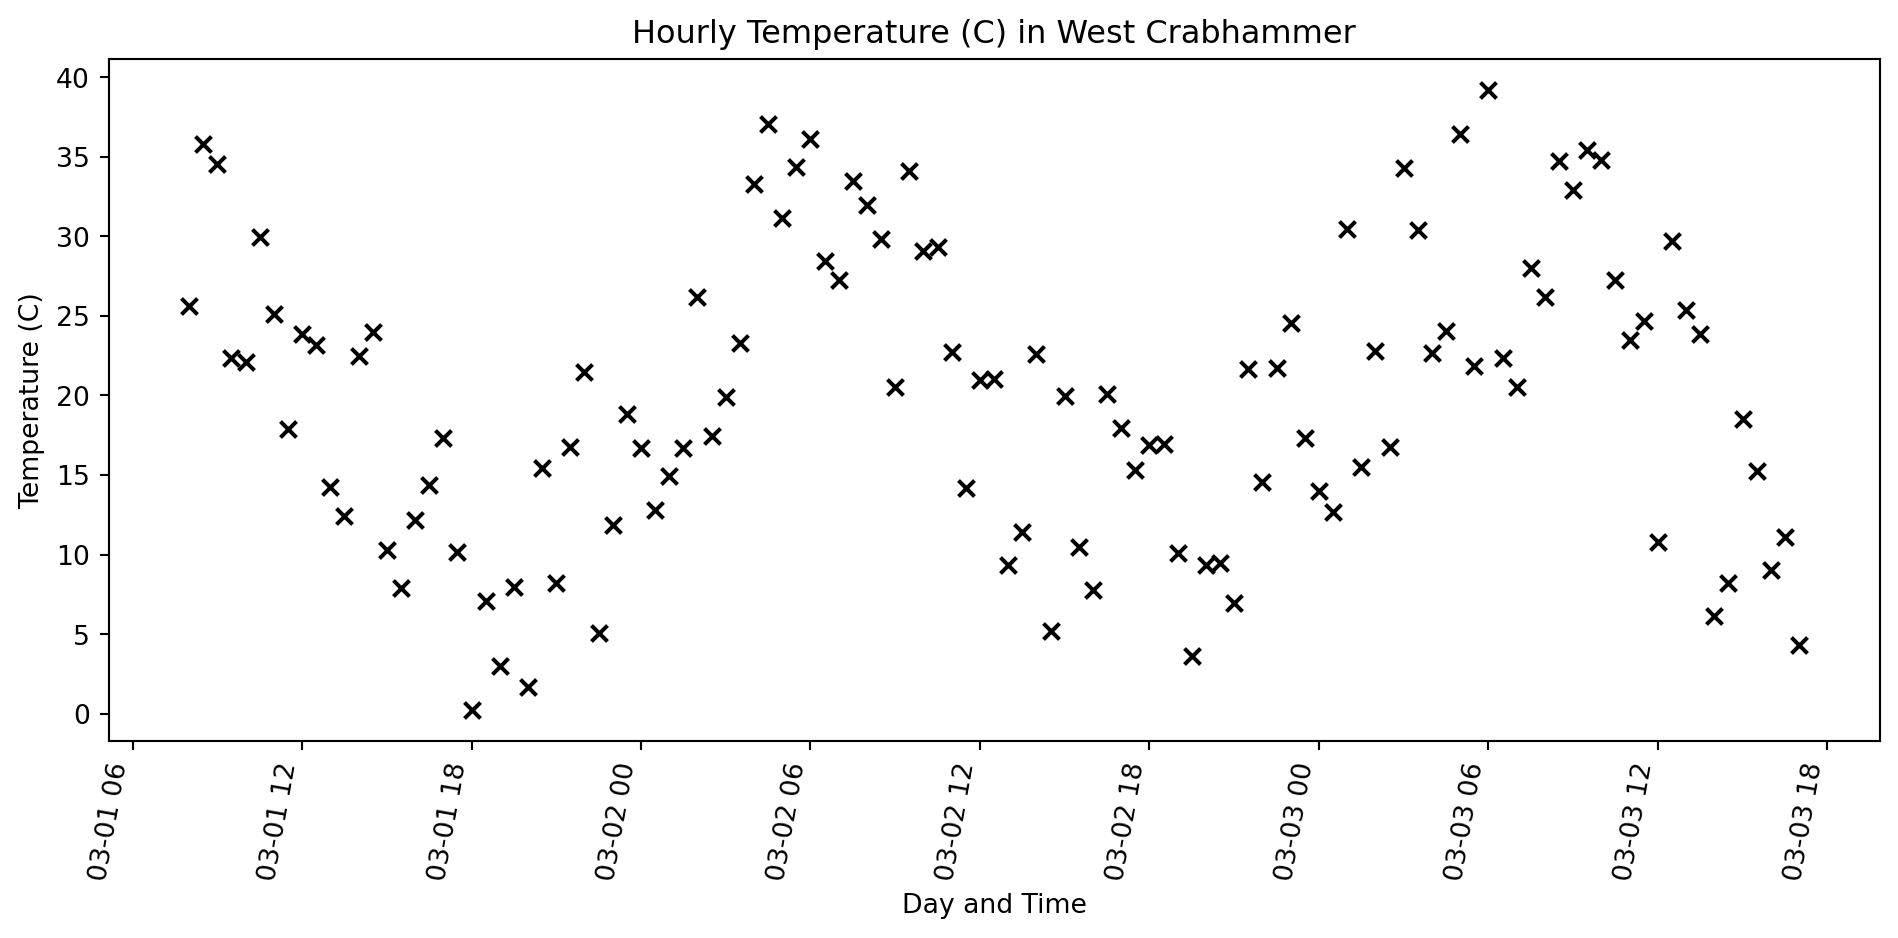
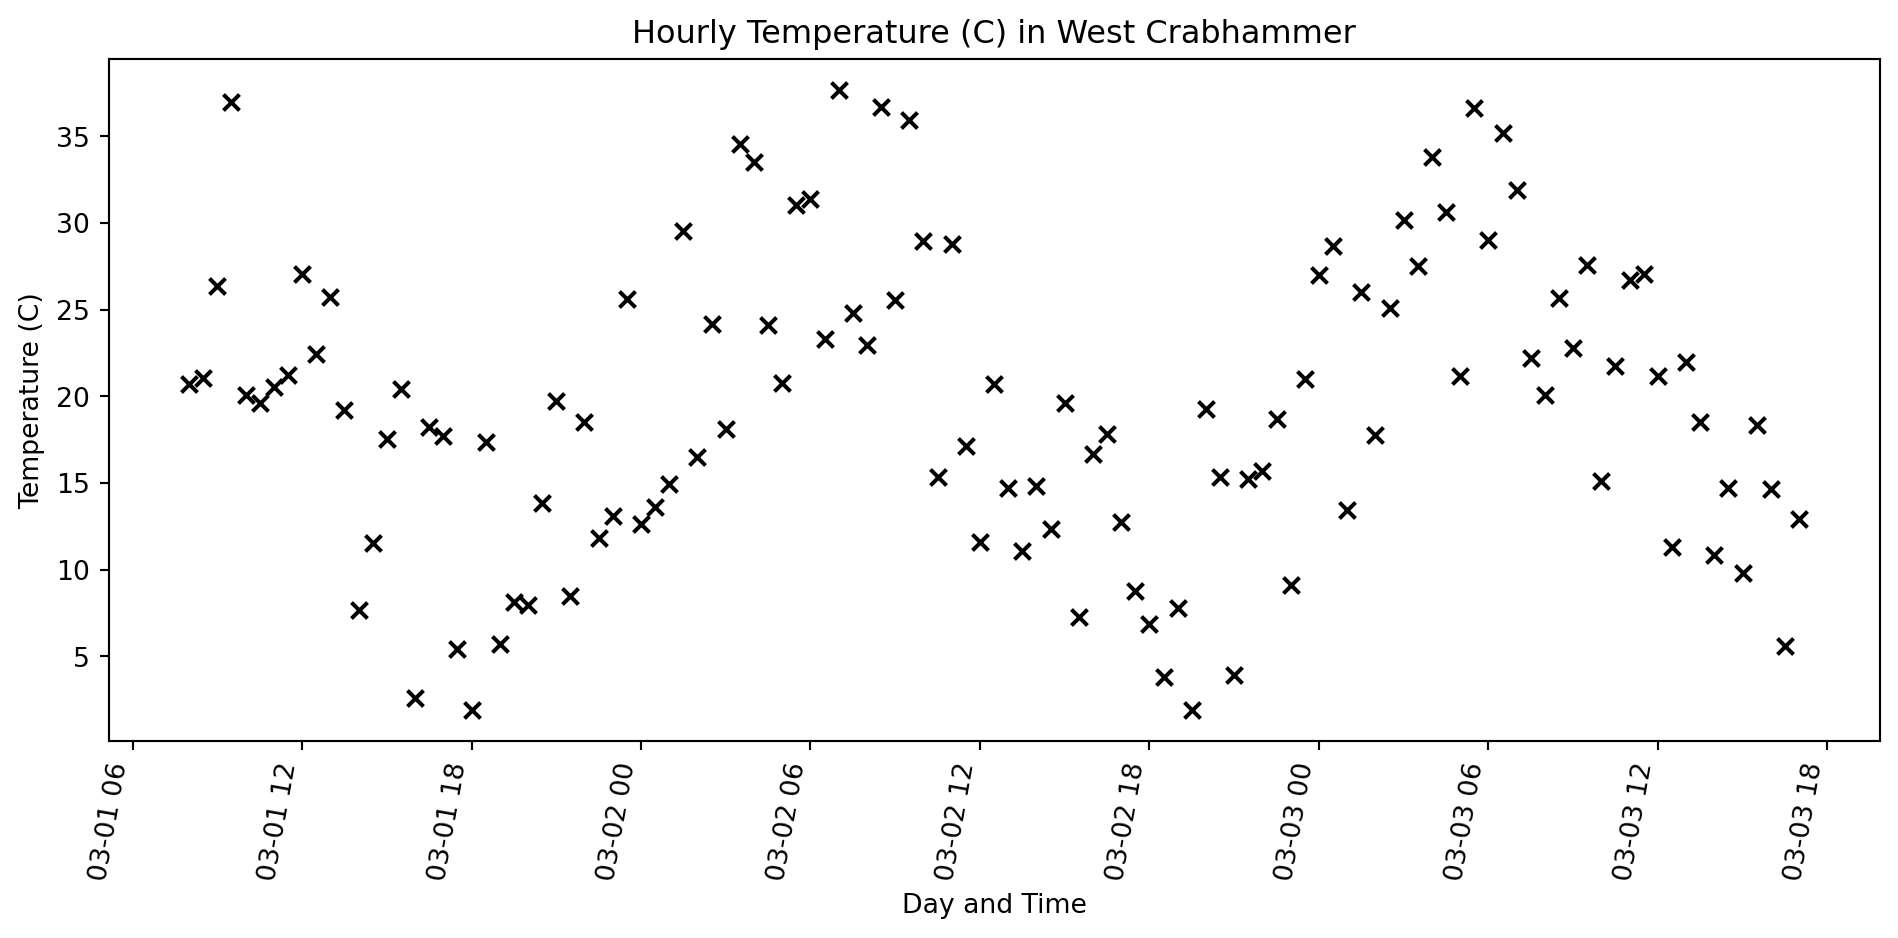
slideshow work

diff --git a/docs/python_geospatial_basics.html b/docs/python_geospatial_basics.html
@@ -264,7 +264,7 @@
 <section id="basic-numbers" class="slide level2">
 <h2>Basic Numbers</h2>
 <p>Floats and Ints don’t do anything all that surprising</p>
-<div id="8364f391" class="cell columns column-output-location" data-execution_count="1">
+<div id="0d2a6058" class="cell columns column-output-location" data-execution_count="1">
 <div class="column">
 <div class="sourceCode cell-code" id="cb1"><pre class="sourceCode numberSource python number-lines code-with-copy"><code class="sourceCode python"><span id="cb1-1"><a></a>a <span class="op">=</span> <span class="dv">2</span> <span class="op">+</span> <span class="dv">2</span></span>
 <span id="cb1-2"><a></a>b <span class="op">=</span> <span class="fl">2.0</span> <span class="op">+</span> <span class="fl">2.0</span></span>
@@ -291,7 +291,7 @@ but 5 // 4 is 1</code></pre>
 <section id="sequences" class="slide level2">
 <h2>Sequences</h2>
 <p>Lists, tuples, and strings ae all sequences</p>
-<div id="ce9dfbdc" class="cell columns column-output-location" data-execution_count="2">
+<div id="f28aa0f4" class="cell columns column-output-location" data-execution_count="2">
 <div class="column">
 <div class="sourceCode cell-code" id="cb3"><pre class="sourceCode numberSource python number-lines code-with-copy"><code class="sourceCode python"><span id="cb3-1"><a></a><span class="co"># a list</span></span>
 <span id="cb3-2"><a></a>a_list <span class="op">=</span> [<span class="dv">1</span>, <span class="dv">2</span>, <span class="dv">3</span>, <span class="dv">4</span>, <span class="dv">5</span>, <span class="dv">6</span>, <span class="dv">7</span>, <span class="dv">8</span>, <span class="dv">9</span>]</span>
@@ -338,7 +338,7 @@ neushorn?</code></pre>
 </section>
 <section id="dictionaries" class="slide level2">
 <h2>Dictionaries</h2>
-<div id="ff29d61b" class="cell columns column-output-location" data-execution_count="3">
+<div id="ad5cd1e6" class="cell columns column-output-location" data-execution_count="3">
 <div class="column">
 <div class="sourceCode cell-code" id="cb5"><pre class="sourceCode numberSource python number-lines code-with-copy"><code class="sourceCode python"><span id="cb5-1"><a></a>pets <span class="op">=</span> {<span class="st">'honden'</span>: <span class="dv">26</span>, <span class="st">'katten'</span>: <span class="dv">100</span>}</span>
 <span id="cb5-2"><a></a></span>
@@ -357,7 +357,7 @@ neushorn?</code></pre>
 </section>
 <section id="iterating" class="slide level2">
 <h2>Iterating</h2>
-<div id="e02aa543" class="cell columns column-output-location" data-execution_count="4">
+<div id="7b027032" class="cell columns column-output-location" data-execution_count="4">
 <div class="column">
 <div class="sourceCode cell-code" id="cb7"><pre class="sourceCode numberSource python number-lines code-with-copy"><code class="sourceCode python"><span id="cb7-1"><a></a>a <span class="op">=</span> [<span class="dv">1</span>, <span class="dv">2</span>, <span class="dv">3</span>, <span class="dv">4</span>, <span class="dv">5</span>, <span class="dv">6</span>, <span class="dv">7</span>, <span class="dv">8</span>, <span class="dv">9</span>]</span>
 <span id="cb7-2"><a></a></span>
@@ -395,7 +395,7 @@ is the same as
 </section>
 <section id="pandas" class="slide level2">
 <h2>Pandas</h2>
-<p>van dmaage <iframe width="560" height="315" src="https://github.com/kulpojke/geog441/blob/slideshow/images/pandas.png"></iframe></p>
+<p>van dmaage <iframe width="560" height="315" src="images/pandas.png"></iframe></p>
 </section>
 <section id="shapely" class="slide level2 smaller">
 <h2>Shapely</h2>
@@ -412,7 +412,7 @@ is the same as
 </section>
 <section id="polygon" class="slide level2">
 <h2>Polygon</h2>
-<div id="d9e258a6" class="cell columns column-output-location" data-execution_count="5">
+<div id="f37588c4" class="cell columns column-output-location" data-execution_count="5">
 <div class="column">
 <div class="sourceCode cell-code" id="cb9"><pre class="sourceCode numberSource python number-lines code-with-copy"><code class="sourceCode python"><span id="cb9-1"><a></a><span class="im">from</span> shapely <span class="im">import</span> Polygon</span>
 <span id="cb9-2"><a></a></span>
@@ -427,7 +427,7 @@ is the same as
 <div class="cell-output cell-output-stdout">
 <pre><code>True</code></pre>
 </div>
-<div class="cell-output cell-output-display" data-execution_count="109">
+<div class="cell-output cell-output-display" data-execution_count="117">
 <div>
 <figure>
 <p><img data-src="python_geospatial_basics_files/figure-revealjs/cell-6-output-2.svg"></p>
@@ -438,7 +438,7 @@ is the same as
 </section>
 <section id="pandas-dataframe" class="slide level2 scrollable">
 <h2>Pandas DataFrame</h2>
-<div id="61b6e70a" class="cell columns column-output-location" data-execution_count="6">
+<div id="b0779f45" class="cell columns column-output-location" data-execution_count="6">
 <div class="column">
 <div class="sourceCode cell-code" id="cb11"><pre class="sourceCode numberSource python number-lines code-with-copy"><code class="sourceCode python"><span id="cb11-1"><a></a><span class="im">from</span> datetime <span class="im">import</span> datetime, timedelta</span>
 <span id="cb11-2"><a></a><span class="im">from</span> random <span class="im">import</span> uniform</span>
@@ -473,7 +473,7 @@ is the same as
 <span id="cb11-31"><a></a></span>
 <span id="cb11-32"><a></a>df.head()</span></code><button title="Copy to Clipboard" class="code-copy-button"><i class="bi"></i></button></pre></div>
 </div><div class="column">
-<div class="cell-output cell-output-display" data-execution_count="110">
+<div class="cell-output cell-output-display" data-execution_count="118">
 <div>
 <style scoped="">
     .dataframe tbody tr th:only-of-type {
@@ -501,27 +501,27 @@ is the same as
 <tr class="odd">
 <td data-quarto-table-cell-role="th">0</td>
 <td>2025-03-01 08:00:00</td>
-<td>27.661081</td>
+<td>21.194223</td>
 </tr>
 <tr class="even">
 <td data-quarto-table-cell-role="th">1</td>
 <td>2025-03-01 08:30:00</td>
-<td>19.305956</td>
+<td>26.404611</td>
 </tr>
 <tr class="odd">
 <td data-quarto-table-cell-role="th">2</td>
 <td>2025-03-01 09:00:00</td>
-<td>22.433571</td>
+<td>28.785962</td>
 </tr>
 <tr class="even">
 <td data-quarto-table-cell-role="th">3</td>
 <td>2025-03-01 09:30:00</td>
-<td>17.192623</td>
+<td>27.016691</td>
 </tr>
 <tr class="odd">
 <td data-quarto-table-cell-role="th">4</td>
 <td>2025-03-01 10:00:00</td>
-<td>21.423532</td>
+<td>32.360164</td>
 </tr>
 </tbody>
 </table>
@@ -532,7 +532,7 @@ is the same as
 </section>
 <section id="pandas-dataframe-cont." class="slide level2 scrollable">
 <h2>Pandas DataFrame Cont.</h2>
-<div id="0b2fcc6d" class="cell columns column-output-location" data-execution_count="7">
+<div id="4c9a74be" class="cell columns column-output-location" data-execution_count="7">
 <div class="column">
 <div class="sourceCode cell-code" id="cb12"><pre class="sourceCode numberSource python number-lines code-with-copy"><code class="sourceCode python"><span id="cb12-1"><a></a><span class="im">from</span> datetime <span class="im">import</span> datetime, timedelta</span>
 <span id="cb12-2"><a></a><span class="im">from</span> random <span class="im">import</span> uniform</span>
